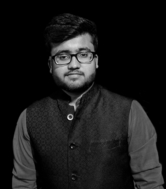
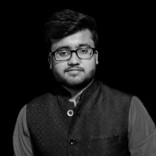
index: Add profile image and text to center

diff --git a/new/index.html b/new/index.html
@@ -32,46 +32,45 @@
         </nav>
     </div>
 
-    <div id="about" class="section">
+    <section class="about_profile">
         <div class="container">
-            <div class="row">
-    
-                <div class="col-md-5">
-                    <img class="aboutImage" src="images/profile.jpg" alt="">
-                </div>
-    
-                <div class="col-md-7">
-                    <h4>Hey there, this is Vipul Jha</h4>
-                    <p>Lorem ipsum dolor sit amet, consectetur adipiscing elit. Sed pretium at lacus vitae sodales. Aliquam
-                        erat
-                        volutpat. Aenean tincidunt lorem sed ante elementum congue. Aliquam tristique eu libero consectetur
-                        varius.
-                        Suspendisse finibus felis vitae posuere aliquam. Nulla ac faucibus justo, sit amet volutpat nisi.
-                        Donec
-                        dignissim diam eu dui pharetra tempus. Nullam vulputate dapibus nunc ut feugiat. Pellentesque
-                        consectetur quis
-                        tellus non rhoncus. Ut vulputate tincidunt magna, id ullamcorper turpis gravida ut. Nulla accumsan
-                        tempor nulla
-                        at hendrerit. Quisque pulvinar, turpis ac auctor faucibus, libero enim suscipit lectus, sit amet
-                        tempor massa
-                        turpis eget mauris. Nulla placerat accumsan neque, et ornare dolor commodo ut.</p>
-                    <p>Orci varius natoque penatibus et magnis dis parturient montes, nascetur ridiculus mus. Quisque in
-                        arcu elit.
-                        Pellentesque feugiat porttitor ex, faucibus finibus ipsum mollis in. Proin tincidunt elit a magna
-                        euismod, vitae
-                        semper justo vulputate. Fusce interdum nulla vel neque sodales congue. Sed id ligula euismod,
-                        interdum sem nec,
-                        varius felis. Phasellus quis massa dolor. Vivamus nunc turpis, ultrices vitae ultricies sed,
-                        lobortis a nunc.</p>
-    
-                </div>
-    
-            </div>
-    
+            <img class="aboutImage" src="images/profile.jpg" alt="">
         </div>
-    </div>
+        <div class="heading">
+            <h1>Vipul Jha</h1>
+        </div>
+        <div class="sub_heading">
+            <h4>Information Technology Student</h3>
+        </div>
+    </section>
+    <section class="about_text">
+        <div class="container">
+            <h4>Hey there, this is Vipul Jha</h4>
+            <p>Lorem ipsum dolor sit amet, consectetur adipiscing elit. Sed pretium at lacus vitae sodales. Aliquam
+                erat
+                volutpat. Aenean tincidunt lorem sed ante elementum congue. Aliquam tristique eu libero consectetur
+                varius.
+                Suspendisse finibus felis vitae posuere aliquam. Nulla ac faucibus justo, sit amet volutpat nisi.
+                Donec
+                dignissim diam eu dui pharetra tempus. Nullam vulputate dapibus nunc ut feugiat. Pellentesque
+                consectetur quis
+                tellus non rhoncus. Ut vulputate tincidunt magna, id ullamcorper turpis gravida ut. Nulla accumsan
+                tempor nulla
+                at hendrerit. Quisque pulvinar, turpis ac auctor faucibus, libero enim suscipit lectus, sit amet
+                tempor massa
+                turpis eget mauris. Nulla placerat accumsan neque, et ornare dolor commodo ut.</p>
+            <p>Orci varius natoque penatibus et magnis dis parturient montes, nascetur ridiculus mus. Quisque in
+                arcu elit.
+                Pellentesque feugiat porttitor ex, faucibus finibus ipsum mollis in. Proin tincidunt elit a magna
+                euismod, vitae
+                semper justo vulputate. Fusce interdum nulla vel neque sodales congue. Sed id ligula euismod,
+                interdum sem nec,
+                varius felis. Phasellus quis massa dolor. Vivamus nunc turpis, ultrices vitae ultricies sed,
+                lobortis a nunc.</p>
 
-
+        </div>
+        </div>
+    </section>
 
     <script src="js/jquery.superslides.min.js"></script>
     <script src="js/typed.min.js"></script>

diff --git a/new/css/style.css b/new/css/style.css
@@ -54,18 +54,27 @@
     font-weight: 300;
 }
 
-.section{
+.about_profile{
     padding: 80px 0px;
+    background-color: #000000;
 }
 
 .aboutImage{
     max-width: 100%;
+    max-height: auto;
+    border-radius: 50%;
+    display: block;
+    margin-left: auto;
+    margin-right: auto;
 }
 
-.col-md-7{
-    margin-top: 20px;
+.heading{
+    padding-top: 30px;
+    text-align: center;
+    color: #ffffff;
 }
-
-.col-md-5{
-    margin-top: 20px
+.sub_heading{
+    padding: 10px 0px;
+    text-align: center;
+    color: #ffffff9d;
 }
